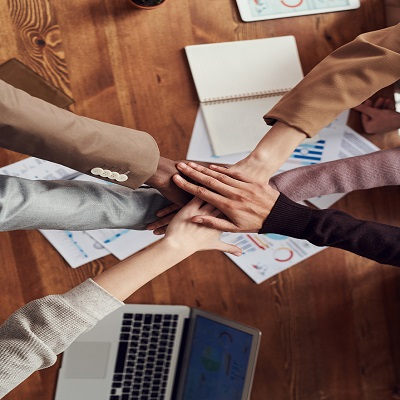
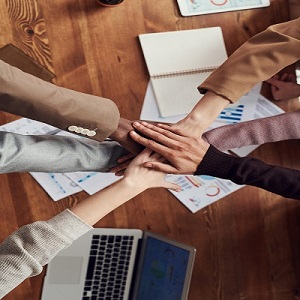
updated

diff --git a/css/style.css b/css/style.css
@@ -253,7 +253,7 @@
             /* place-self: center; */
                 /* max-width: 100%; */
             flex: 0 0 auto;
-            width: 40%;
+            width: 38%;
             /* place-self: center; */
            
          
@@ -261,10 +261,11 @@
         
         .content-image{
           
-           height: 100%; 
-           width: 100%;
+           height: 450px; 
+           width: 80%;
+           padding-left: 2rem    ;
            
-            /* object-fit: cover; */
+            object-fit: cover;
             display: inline-block;
             /* max-width: 125%; */
             /* background-color: blue; */
@@ -285,8 +286,13 @@
             width: 15rem;
             height: 4rem;
             color: white;
-            border-color:  greenyellow;
+            border-color:  #5fdb07;
             font-weight: 500;
+            border-radius: 10px;
+        }
+
+        .mission-button:hover{
+            background-color: #6e9834 ;
         }
         
 
@@ -689,8 +695,9 @@
             font-size: large;
             margin-bottom: 2rem;
             font-weight: 700;
-            font-size: 4rem;
+            font-size: 5.5rem;
             margin-bottom: 10rem;
+            /* letter-spacing: -0.03em; */
         }
         
         .footer{
@@ -699,8 +706,8 @@
             background-color: #262820;
             height: 39rem;
             color: white;
-            padding-right: 15rem;
-            padding-left: 15rem;
+            padding-right: 10rem;
+            padding-left: 10rem;
             /* align-items: center; */
             align-content: center;
         
@@ -770,6 +777,8 @@
         }
         .email-logo{
             color: red;
+            font-size: 5rem;
+            
         }
         .footer-bottom{
             display: flex;
@@ -779,6 +788,7 @@
             color: #AAAAAA;
             align-items: center;
             justify-content: space-between;
+            align-content: center;
             padding-left: 20rem;
             padding-right: 20rem;
             font-size: 1.5rem;
@@ -810,11 +820,17 @@
         .footer-button{
             display: flex;
             row-gap: -2rem;
-            flex-direction: column;
+            /* flex-direction: ; */
+            /* align-items: center; */
+            /* justify-content: center; */
+            column-gap: 0.5rem;
         }
 
         .footer-button-button{
             padding: 1rem;
+            /* place-self: center;
+            align-self: center; */
+            margin-top: 2rem;
         }
 
 
@@ -919,7 +935,7 @@
         
         .content-image{
           
-           height: 100%; 
+           height: 10px; 
           
             
             display: inline-block;
